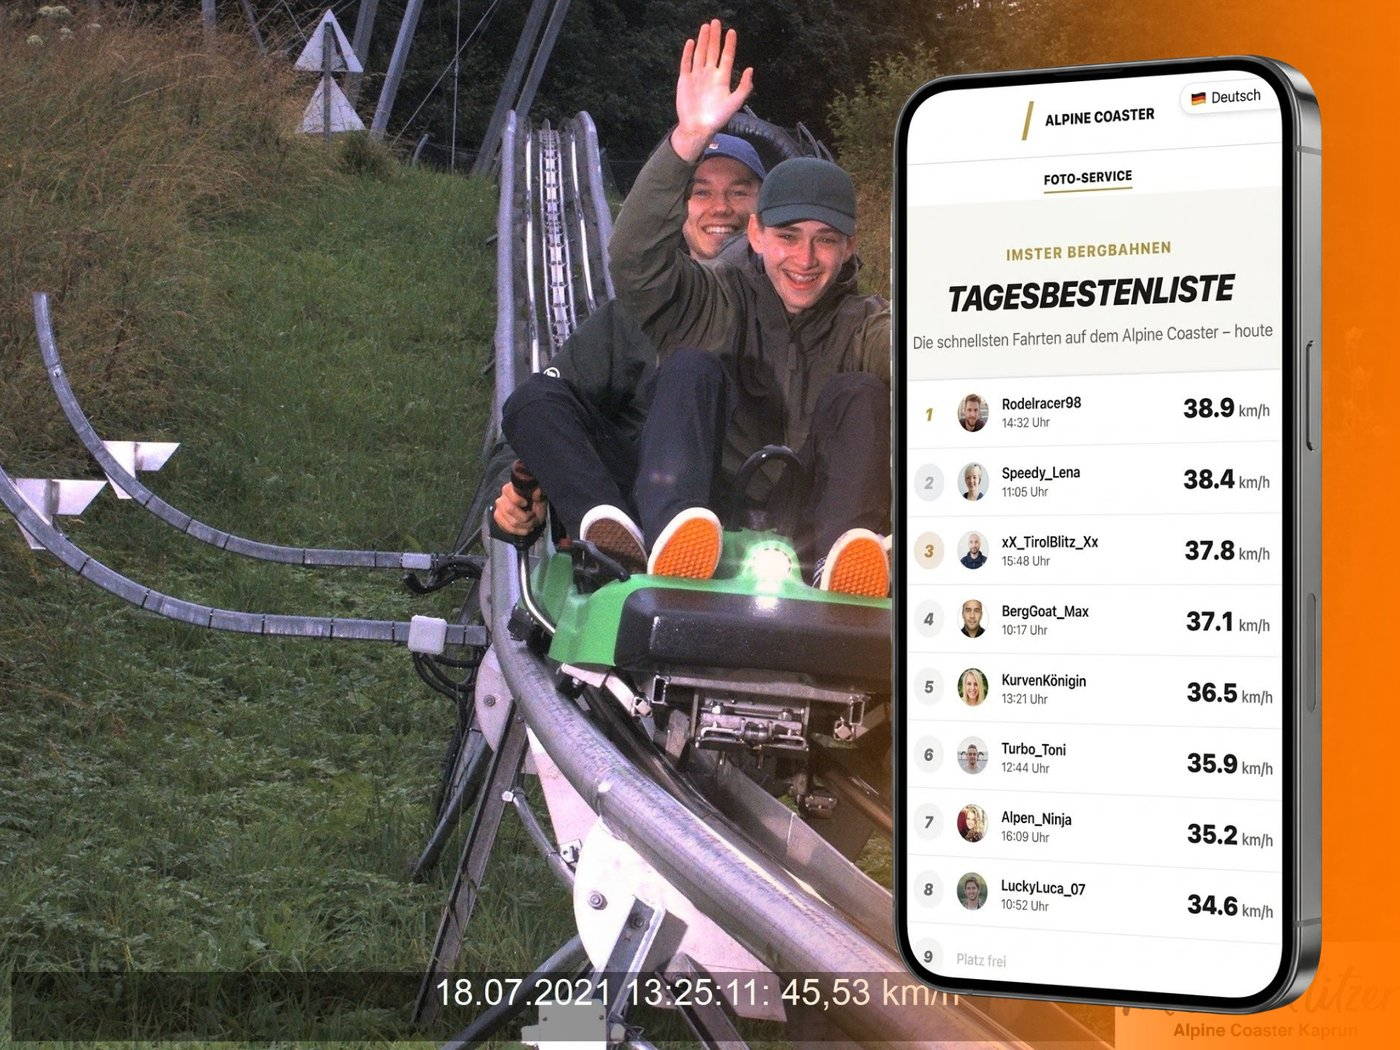
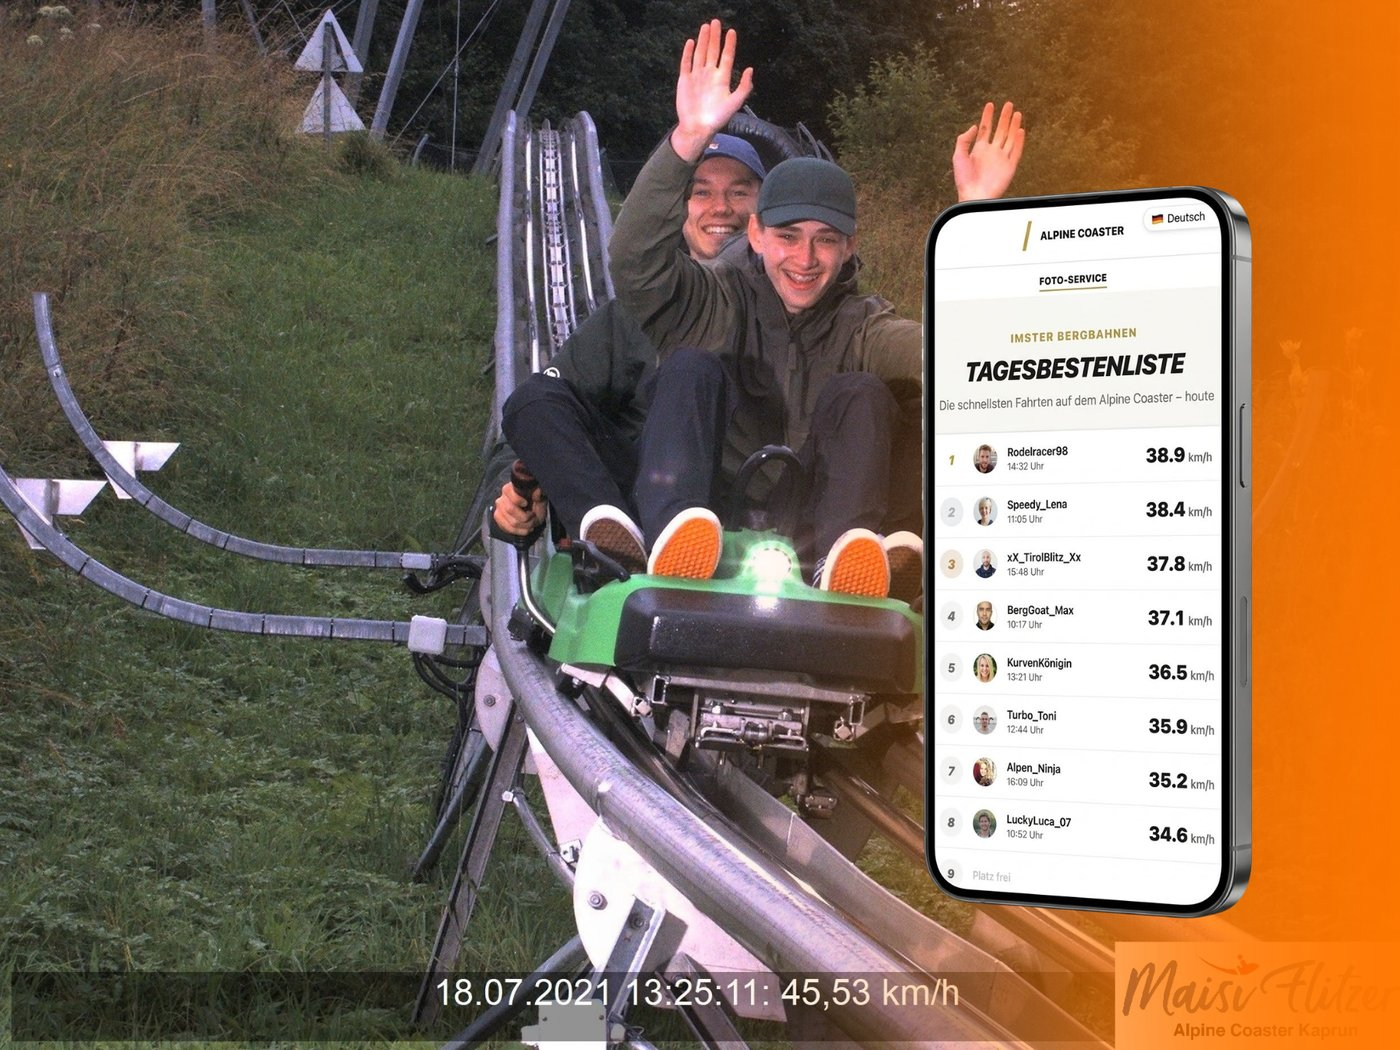
Speedmessung: Paketbild 149 €/48 Monate auf pirates (27)

Changed region(s): [[0.6143, 0.0305, 0.9521, 0.9752]]

diff --git a/src/pages/ConfigurationProduct.tsx b/src/pages/ConfigurationProduct.tsx
@@ -266,7 +266,7 @@ export default function ConfigurationProduct() {
   // bzw. Fahrtfoto mit Geschwindigkeit).
   const bilder = [
     ...eintragBilder(item),
-    ...(istSpeed ? [speedPaket === 'display' ? '/speedmessung/display.jpg?v=2' : '/speedmessung/langzeit.jpg?v=2'] : []),
+    ...(istSpeed ? [speedPaket === 'display' ? '/speedmessung/display.jpg?v=2' : '/speedmessung/langzeit.jpg?v=3'] : []),
   ];
   const aktuell = bilder[index] ?? bilder[0];
   const punkte = beschreibungPunkte(equipmentDescription(item.beschreibung, language));

diff --git a/src/components/SpeedmessungOffer.tsx b/src/components/SpeedmessungOffer.tsx
@@ -41,7 +41,7 @@ const PLANS: {
     name: 'speed.offer.plan_basic',
     monthly: 149,
     months: 12,
-    image: '/speedmessung/langzeit.jpg?v=2',
+    image: '/speedmessung/langzeit.jpg?v=3',
     extras: ['speed.offer.term_12'],
   },
   {
@@ -64,7 +64,7 @@ const PLANS: {
     monthly: 99,
     months: 48,
     badge: 'speed.offer.value',
-    image: '/speedmessung/langzeit.jpg?v=2',
+    image: '/speedmessung/langzeit.jpg?v=3',
     extras: ['speed.offer.long_price', 'speed.offer.long_fixed', 'speed.offer.term_48'],
   },
 ];
